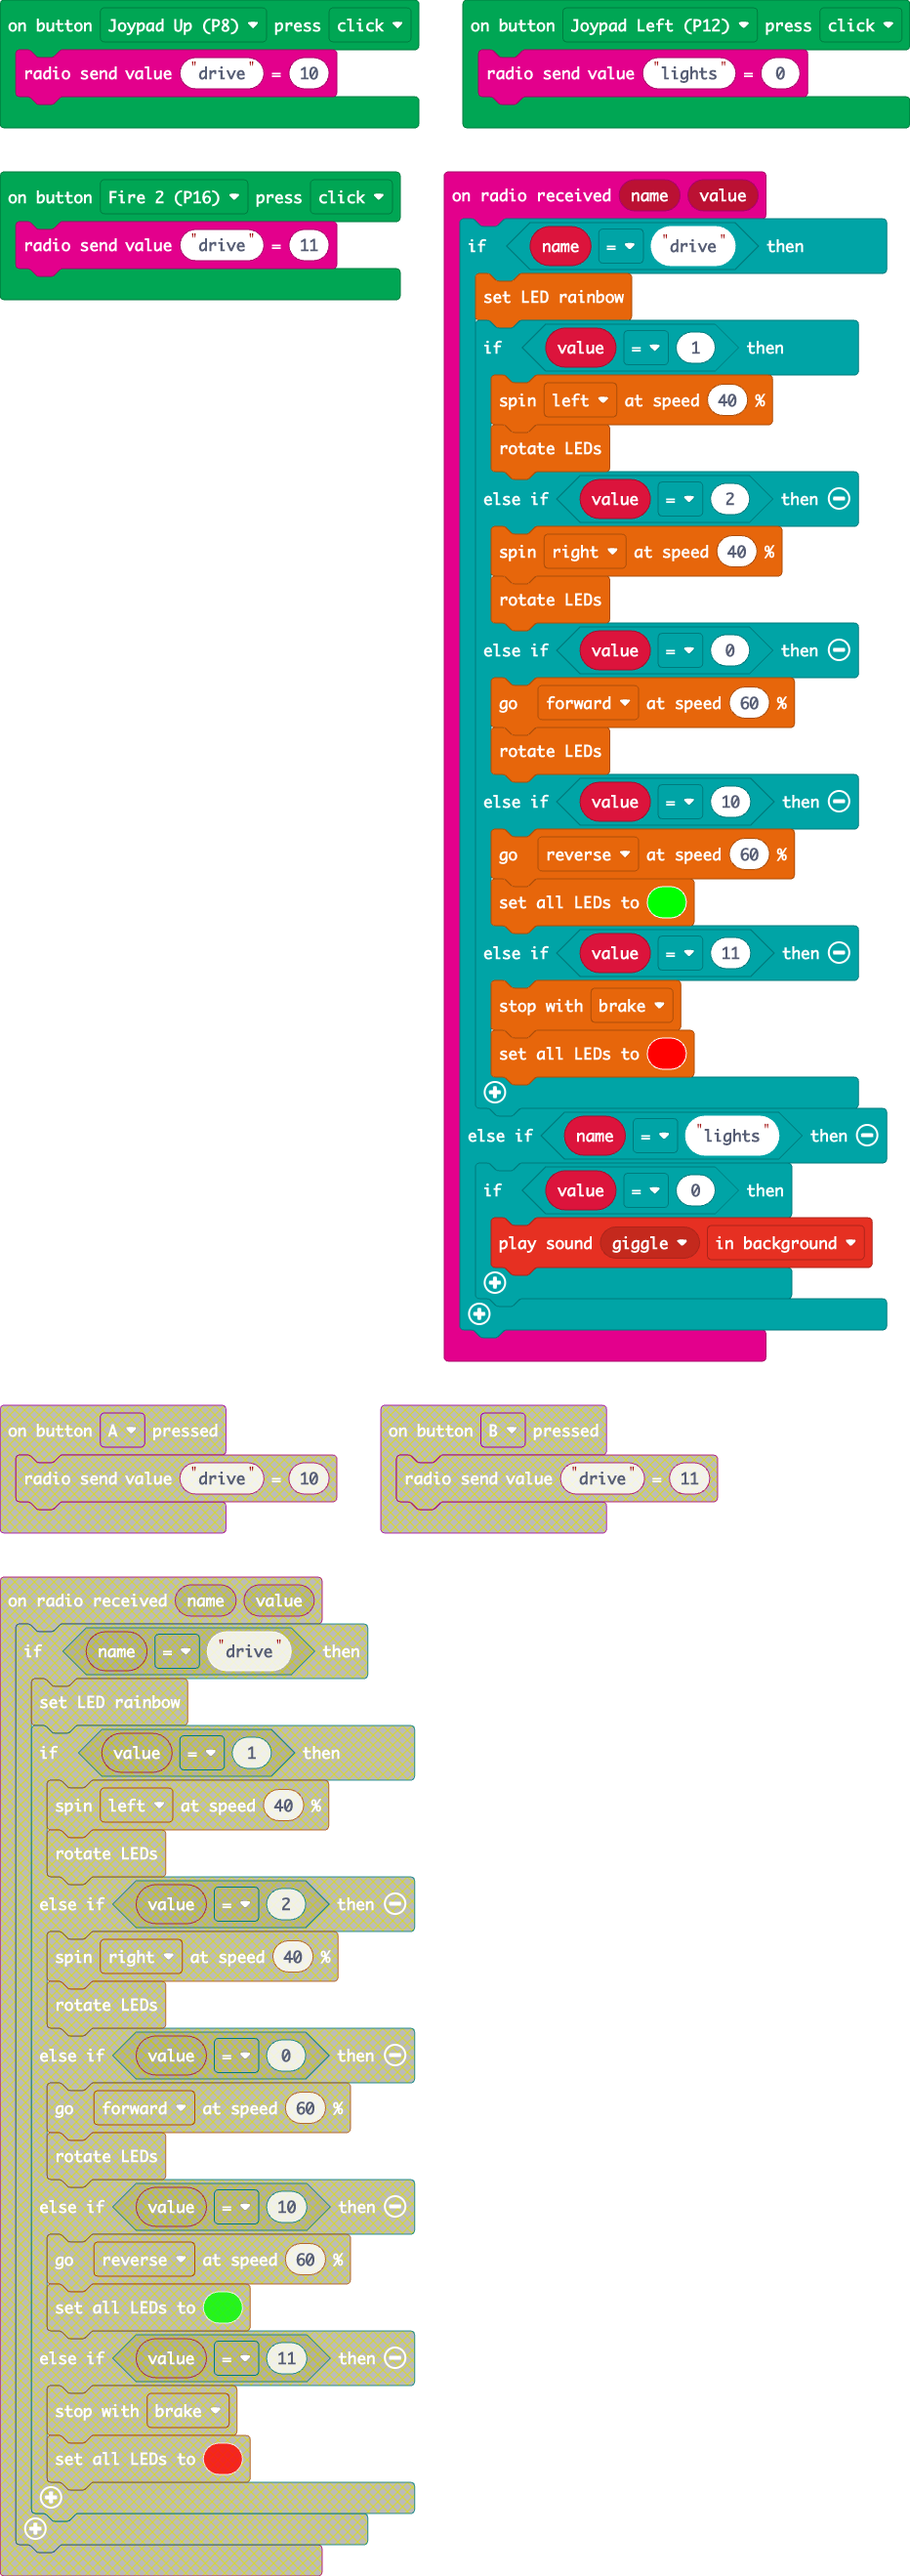
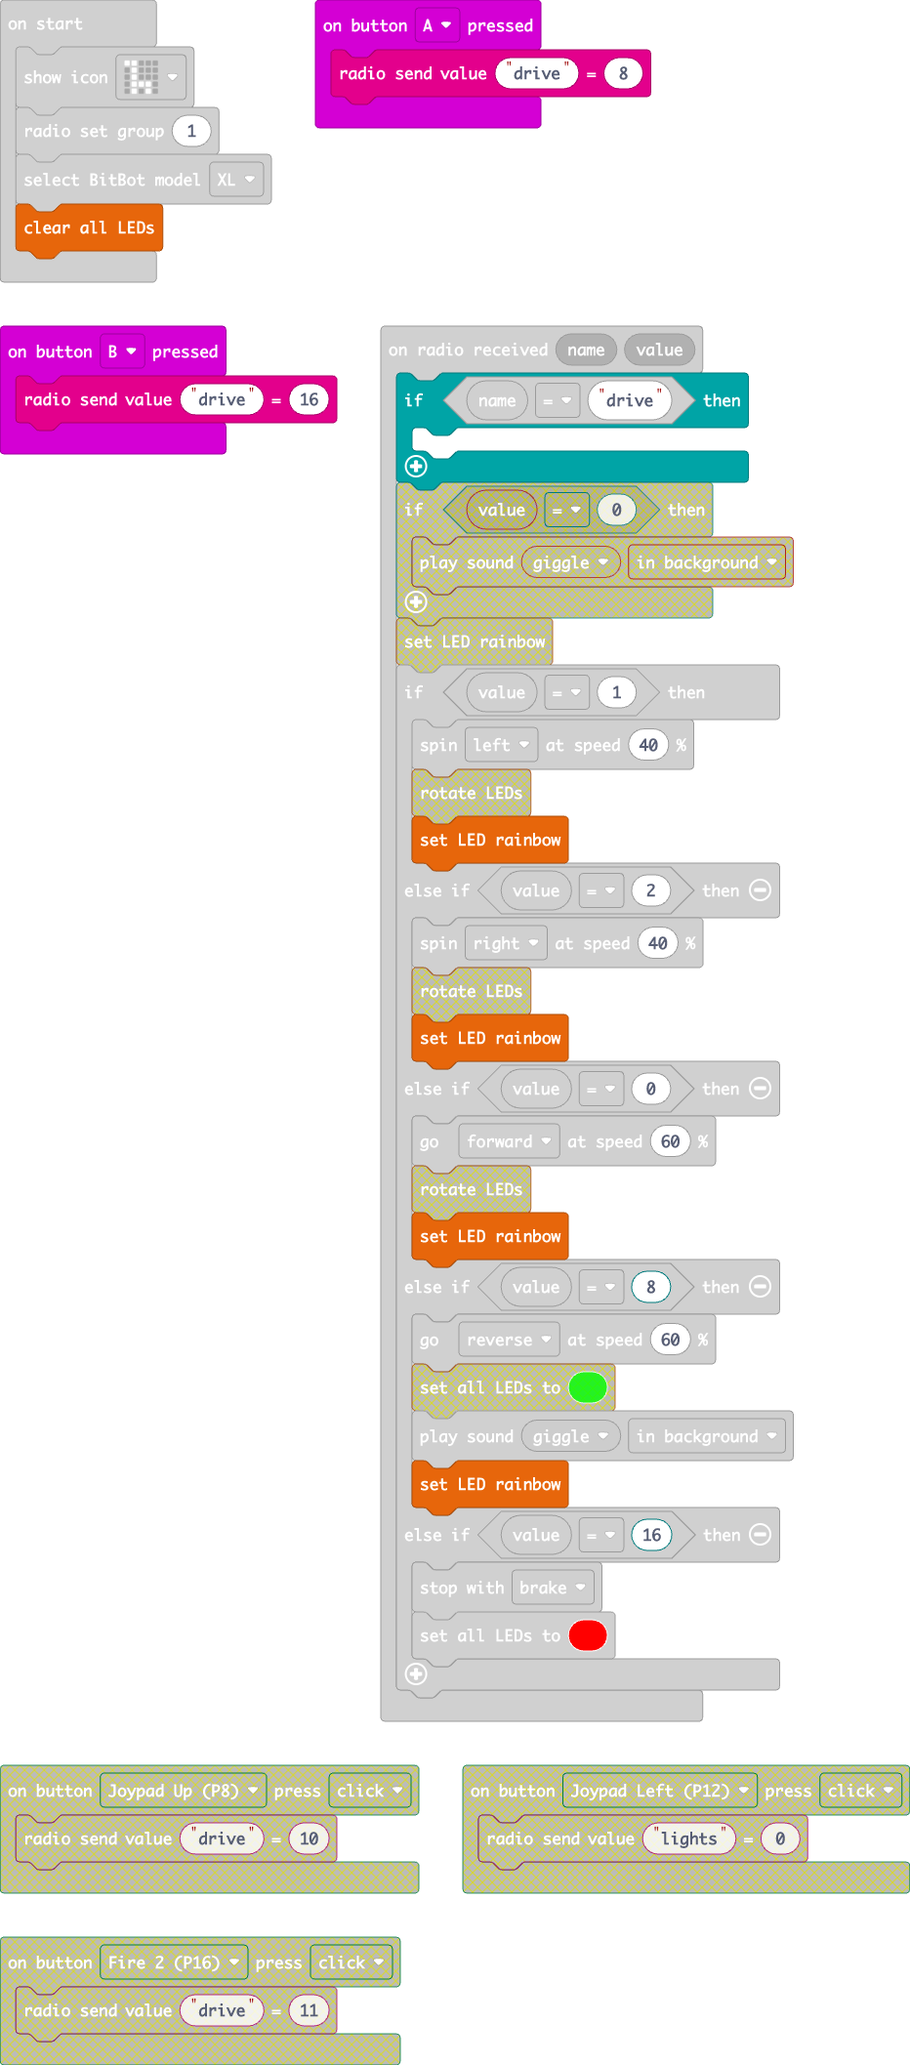
simplified version which seems to be more reliable

diff --git a/main.ts b/main.ts
@@ -1,46 +1,40 @@
 input.onPinPressed(TouchPin.P0, function () {
     radio.sendValue("drive", 0)
 })
-Kitronik_Game_Controller.onButtonPress(Kitronik_Game_Controller.ControllerButtonPins.Up, Kitronik_Game_Controller.ControllerButtonEvents.Click, function () {
-    radio.sendValue("drive", 10)
-})
-Kitronik_Game_Controller.onButtonPress(Kitronik_Game_Controller.ControllerButtonPins.Fire2, Kitronik_Game_Controller.ControllerButtonEvents.Click, function () {
-    radio.sendValue("drive", 11)
+input.onButtonPressed(Button.A, function () {
+    radio.sendValue("drive", 8)
 })
 input.onPinPressed(TouchPin.P2, function () {
     radio.sendValue("drive", 2)
+})
+input.onButtonPressed(Button.B, function () {
+    radio.sendValue("drive", 16)
 })
 input.onPinPressed(TouchPin.P1, function () {
     radio.sendValue("drive", 1)
 })
 radio.onReceivedValue(function (name, value) {
     if (name == "drive") {
-        bitbot.ledRainbow()
         if (value == 1) {
             bitbot.rotate(BBRobotDirection.Left, 40)
-            bitbot.ledRotate()
+            bitbot.ledRainbow()
         } else if (value == 2) {
             bitbot.rotate(BBRobotDirection.Right, 40)
-            bitbot.ledRotate()
+            bitbot.ledRainbow()
         } else if (value == 0) {
             bitbot.go(BBDirection.Forward, 60)
-            bitbot.ledRotate()
-        } else if (value == 10) {
+            bitbot.ledRainbow()
+        } else if (value == 8) {
             bitbot.go(BBDirection.Reverse, 60)
-            bitbot.setLedColor(0x00FF00)
-        } else if (value == 11) {
+            music.playSoundEffect(music.builtinSoundEffect(soundExpression.giggle), SoundExpressionPlayMode.InBackground)
+            bitbot.ledRainbow()
+        } else if (value == 16) {
             bitbot.stop(BBStopMode.Brake)
             bitbot.setLedColor(0xFF0000)
         }
-    } else if (name == "lights") {
-        if (value == 0) {
-            music.playSoundEffect(music.builtinSoundEffect(soundExpression.giggle), SoundExpressionPlayMode.InBackground)
-        }
     }
-})
-Kitronik_Game_Controller.onButtonPress(Kitronik_Game_Controller.ControllerButtonPins.Left, Kitronik_Game_Controller.ControllerButtonEvents.Click, function () {
-    radio.sendValue("lights", 0)
 })
 basic.showIcon(IconNames.Giraffe)
 radio.setGroup(1)
 bitbot.select_model(BBModel.XL)
+bitbot.ledClear()

diff --git a/main.py b/main.py
@@ -1,26 +1,43 @@
+def on_pulsed_p16_high():
+    basic.show_icon(IconNames.STICK_FIGURE)
+    radio.send_value("drive", 1)
+pins.on_pulsed(DigitalPin.P16, PulseValue.HIGH, on_pulsed_p16_high)
+
 def on_pin_pressed_p0():
     radio.send_value("drive", 0)
 input.on_pin_pressed(TouchPin.P0, on_pin_pressed_p0)
 
-def on_button_pressed_a():
-    radio.send_value("drive", 10)
-input.on_button_pressed(Button.A, on_button_pressed_a)
+def my_function():
+    radio.send_value("drive", 16)
+Kitronik_Game_Controller.on_button_press(Kitronik_Game_Controller.ControllerButtonPins.FIRE2,
+    Kitronik_Game_Controller.ControllerButtonEvents.DOWN,
+    my_function)
+
+def my_function2():
+    radio.send_value("lights", 16)
+Kitronik_Game_Controller.on_button_press(Kitronik_Game_Controller.ControllerButtonPins.FIRE2,
+    Kitronik_Game_Controller.ControllerButtonEvents.UP,
+    my_function2)
 
 def on_pin_pressed_p2():
     radio.send_value("drive", 2)
 input.on_pin_pressed(TouchPin.P2, on_pin_pressed_p2)
 
 def on_button_pressed_b():
-    radio.send_value("drive", 11)
+    radio.send_value("drive", 16)
 input.on_button_pressed(Button.B, on_button_pressed_b)
 
 def on_pin_pressed_p1():
     radio.send_value("drive", 1)
 input.on_pin_pressed(TouchPin.P1, on_pin_pressed_p1)
 
+def on_pulsed_p8_high():
+    basic.show_icon(IconNames.STICK_FIGURE)
+    radio.send_value("drive", 8)
+pins.on_pulsed(DigitalPin.P8, PulseValue.HIGH, on_pulsed_p8_high)
+
 def on_received_value(name, value):
     if name == "drive":
-        bitbot.led_rainbow()
         if value == 1:
             bitbot.rotate(BBRobotDirection.LEFT, 40)
             bitbot.led_rotate()
@@ -30,14 +47,36 @@ def on_received_value(name, value):
         elif value == 0:
             bitbot.go(BBDirection.FORWARD, 60)
             bitbot.led_rotate()
-        elif value == 10:
+        elif value == 8:
             bitbot.go(BBDirection.REVERSE, 60)
             bitbot.set_led_color(0x00FF00)
-        elif value == 11:
+        elif value == 16:
             bitbot.stop(BBStopMode.BRAKE)
             bitbot.set_led_color(0xFF0000)
+    elif name == "lights":
+        if value == 12:
+            music.play_sound_effect(music.builtin_sound_effect(soundExpression.giggle),
+                SoundExpressionPlayMode.IN_BACKGROUND)
+            bitbot.led_rainbow()
+        elif value == 16:
+            bitbot.led_rainbow()
 radio.on_received_value(on_received_value)
+
+def my_function3():
+    radio.send_value("lights", 12)
+Kitronik_Game_Controller.on_button_press(Kitronik_Game_Controller.ControllerButtonPins.LEFT,
+    Kitronik_Game_Controller.ControllerButtonEvents.CLICK,
+    my_function3)
+
+def my_function4():
+    radio.send_value("drive", 8)
+Kitronik_Game_Controller.on_button_press(Kitronik_Game_Controller.ControllerButtonPins.FIRE1,
+    Kitronik_Game_Controller.ControllerButtonEvents.CLICK,
+    my_function4)
 
 basic.show_icon(IconNames.GIRAFFE)
 radio.set_group(1)
 bitbot.select_model(BBModel.XL)
+bitbot.led_clear()
+pins.set_events(DigitalPin.P8, PinEventType.TOUCH)
+pins.set_events(DigitalPin.P16, PinEventType.TOUCH)
